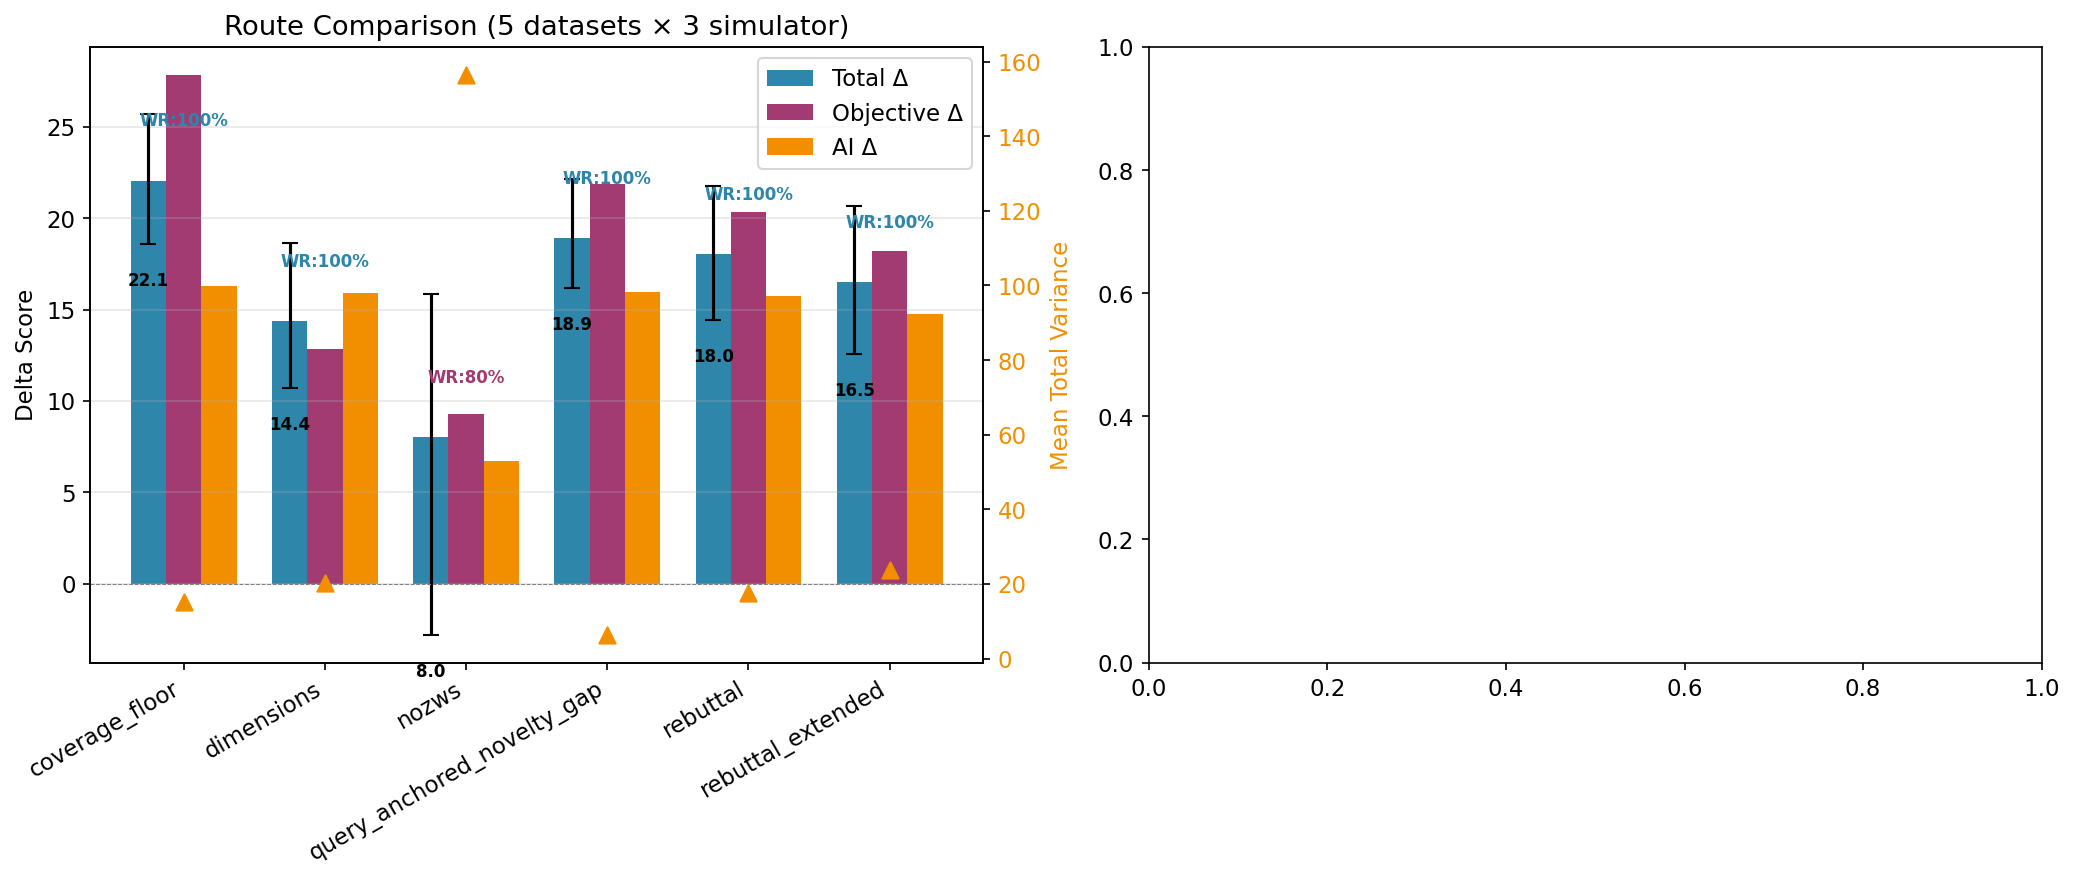
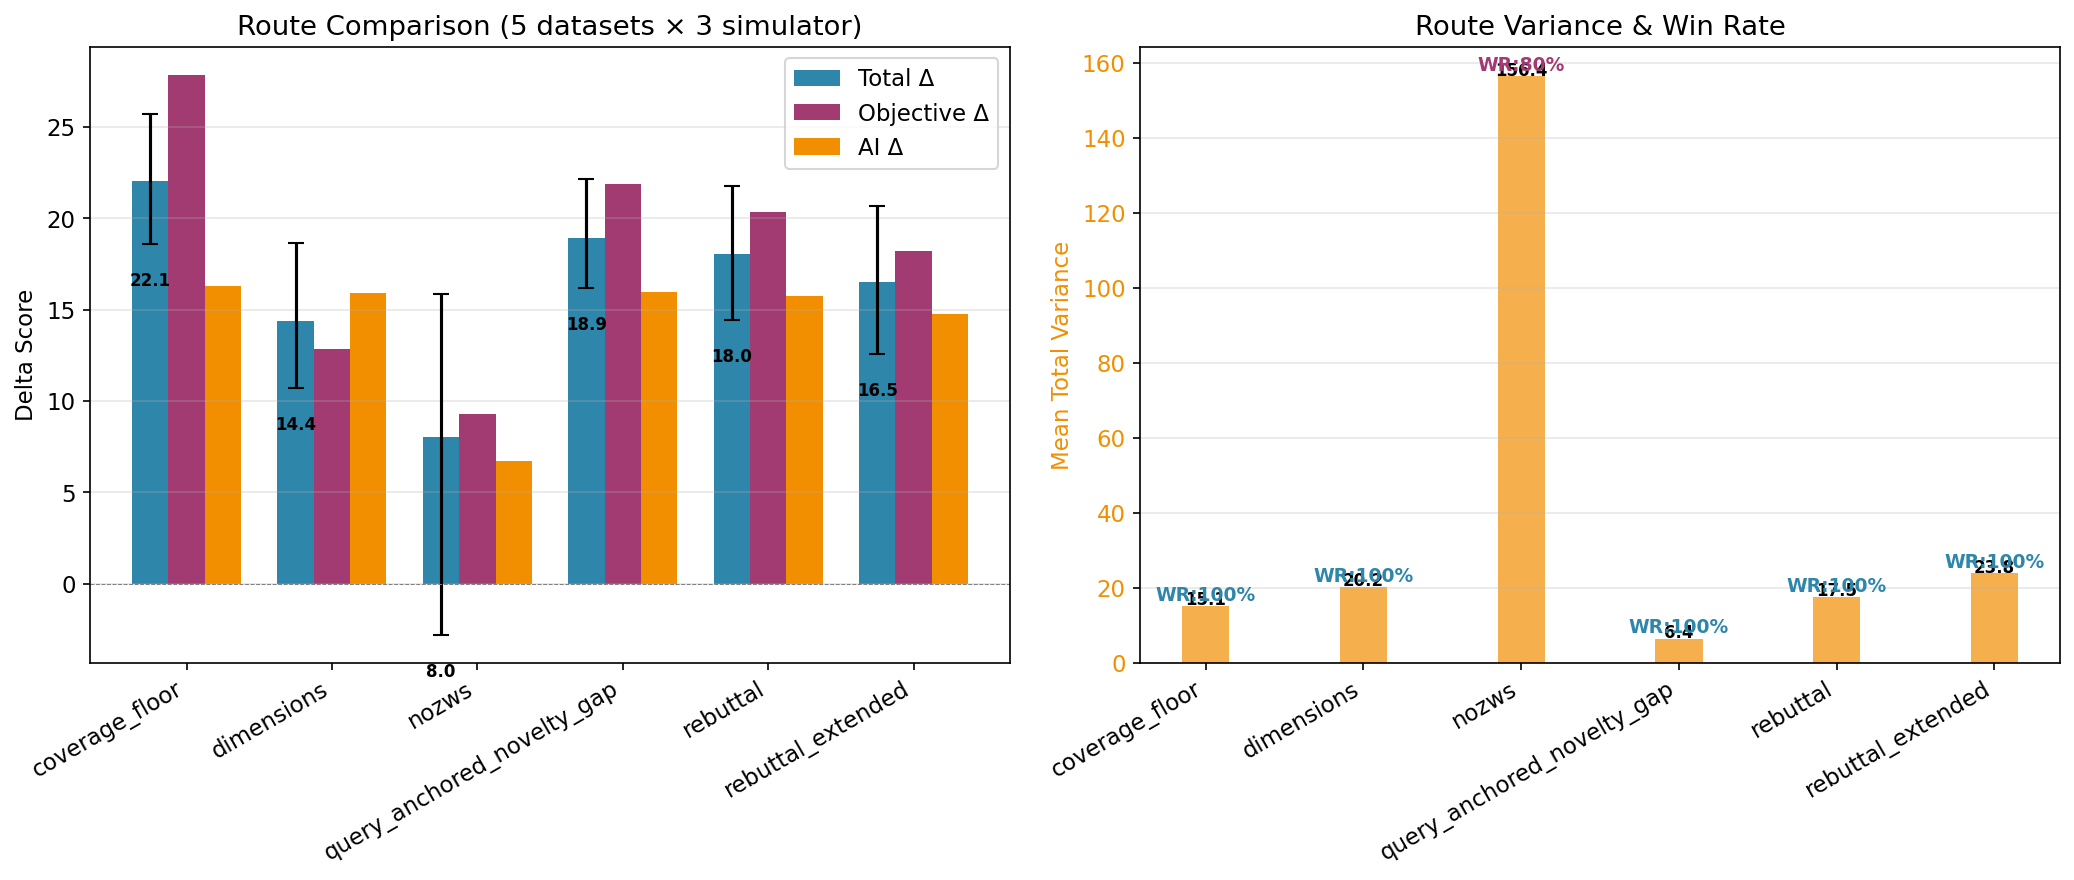
Fix chart generation bugs in technical report charts
- Fix route_delta_comparison: right subplot was empty (ax2 never used), now renders variance bars and win rate annotations
- Fix per_dataset_route_delta heatmap: was reading non-existent dataset_label field, now uses dataset_id with dynamic label extraction

diff --git a/scripts/generate_report_charts.py b/scripts/generate_report_charts.py
@@ -80,16 +80,24 @@ def chart_route_delta_comparison():
     for bar, delta, ci_low in zip(bars1, deltas, ci_lows):
         ax1.text(bar.get_x() + bar.get_width() / 2, ci_low - 1.5, f"{delta:.1f}", ha="center", va="top", fontsize=8, fontweight="bold")
 
-    # Right: Variance + Win Rate
-    ax3 = ax1.twinx()
-    ax3.scatter(x, variances, color="#F18F01", s=60, zorder=5, marker="^", label="Variance")
-    ax3.set_ylabel("Mean Total Variance", color="#F18F01")
-    ax3.tick_params(axis="y", labelcolor="#F18F01")
+    # Right: Variance + Win Rate (now actually drawn on ax2)
+    x2 = np.arange(len(variants))
+    w2 = 0.3
+    bars_var = ax2.bar(x2, variances, w2, color="#F18F01", alpha=0.7, label="Mean Total Variance")
+    ax2.set_ylabel("Mean Total Variance", color="#F18F01")
+    ax2.tick_params(axis="y", labelcolor="#F18F01")
+    ax2.set_title("Route Variance & Win Rate")
+    ax2.set_xticks(x2)
+    ax2.set_xticklabels(variants, rotation=30, ha="right")
+    ax2.grid(axis="y", alpha=0.3)
 
-    # Win rate as text annotations
+    for bar, var in zip(bars_var, variances):
+        ax2.text(bar.get_x() + bar.get_width() / 2, bar.get_height() + 0.3, f"{var:.1f}", ha="center", fontsize=8, fontweight="bold")
+
+    # Win rate annotations on ax2
     for i, (vr, var) in enumerate(zip(win_rates, variances)):
         color = "#2E86AB" if vr >= 100 else "#A23B72"
-        ax1.annotate(f"WR:{vr:.0f}%", (x[i], deltas[i] + 3), ha="center", fontsize=8, color=color, fontweight="bold")
+        ax2.annotate(f"WR:{vr:.0f}%", (x2[i], variances[i] + 1.5), ha="center", fontsize=9, color=color, fontweight="bold")
 
     fig.tight_layout()
     fig.savefig(str(REPORT_CHART_DIR / "route_delta_comparison.png"), bbox_inches="tight")